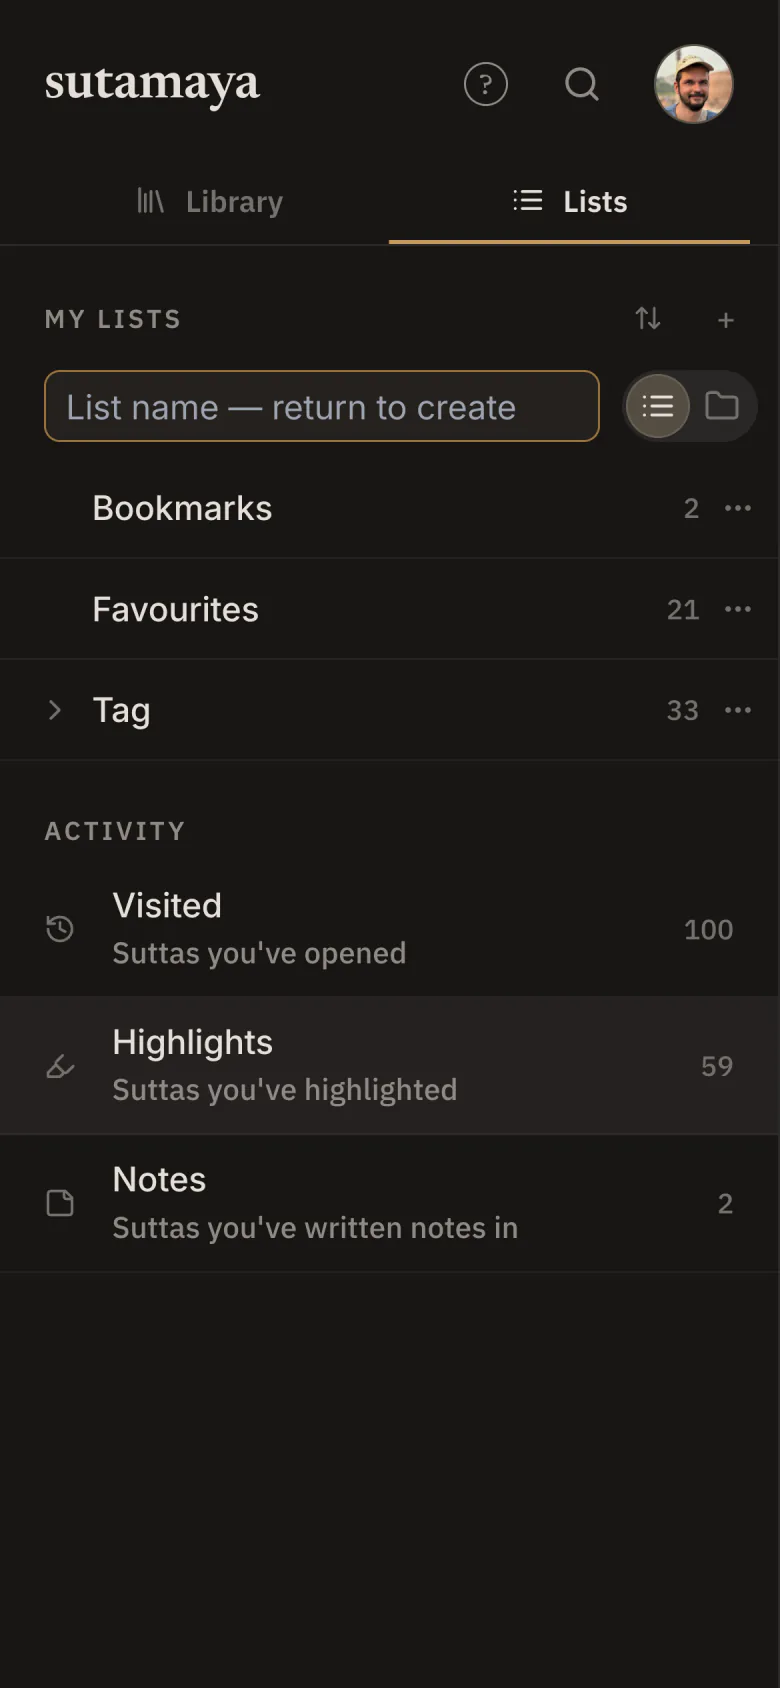
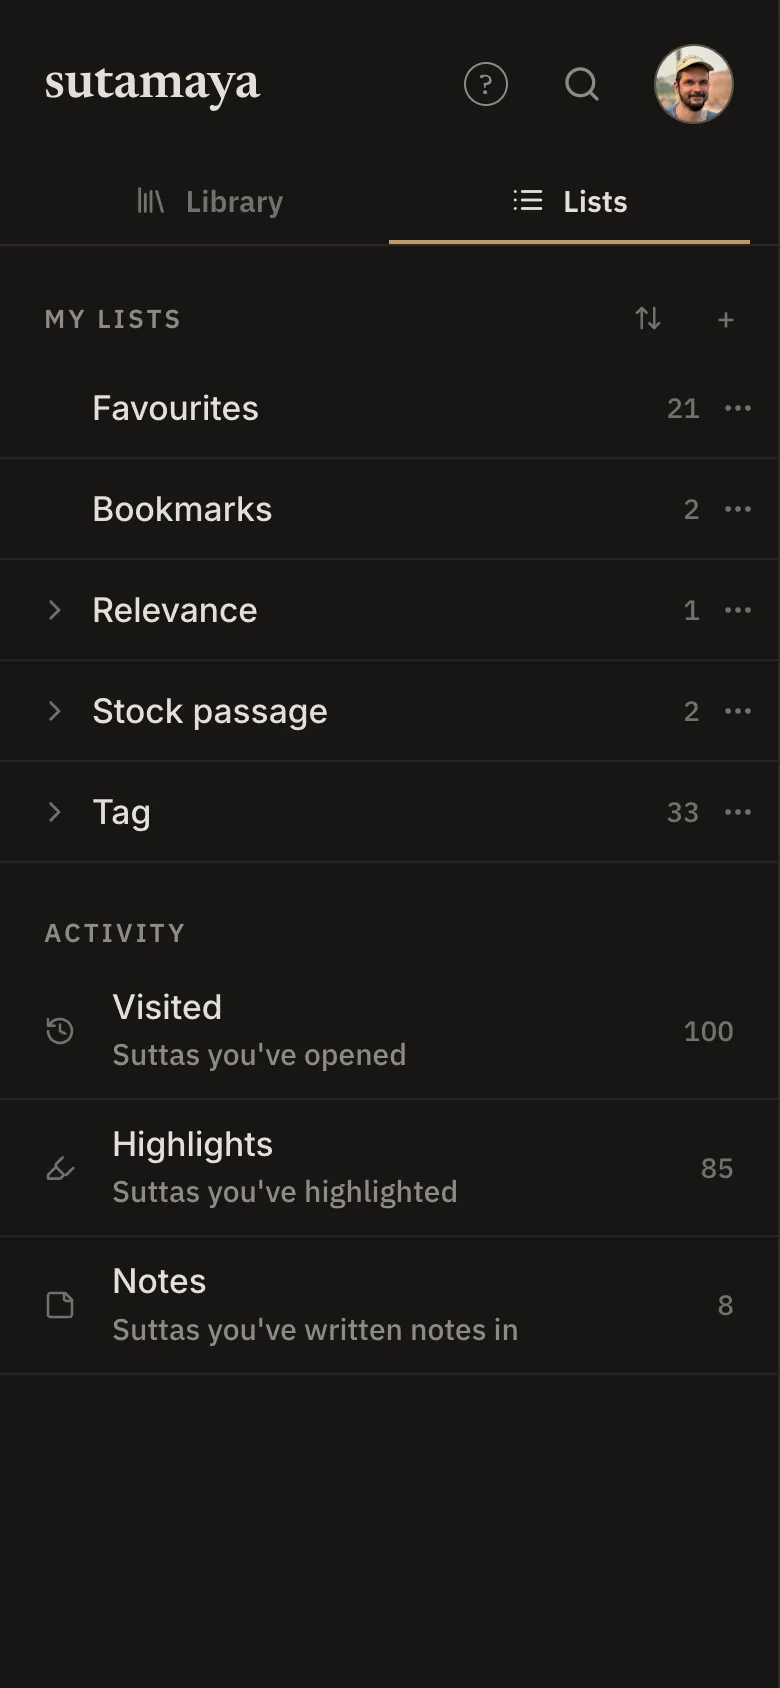
Link the walkthrough video from the hero, and refresh the Lists shot
The walkthrough stays on YouTube and is reached by a text link under the
hero's button. An embedded player would put YouTube's title bar, buttons
and end-screen grid in the middle of the layout, and would be the first
JavaScript on a page that otherwise runs none.

lists-mobile.webp is recaptured with a fuller set of lists, and is now
the one screenshot here with no counterpart in the help page's assets.

Claude-Session: https://claude.ai/code/session_011jty4vEYizDSyE4CrMJgS5

diff --git a/web/public/landing.html b/web/public/landing.html
@@ -8,7 +8,8 @@
   It duplicates the app's colours, wordmark and screenshots rather than importing them: nothing
   here is part of the Vite graph, so there is no build step to resolve a token or hash an asset
   name. The screenshots in /landing/ are copies of the ones web/src/assets/help/ ships to the
-  help page, and have to be re-copied when those are recaptured.
+  help page, and have to be re-copied when those are recaptured — except lists-mobile.webp,
+  which is captured for this page alone and has no counterpart there.
 -->
 <html lang="en">
   <head>
@@ -157,6 +158,8 @@
       .lede { font-size: clamp(17px, 2.4vw, 20px); color: rgb(var(--ink-2)); margin: 0 0 32px; }
       .cta { display: flex; gap: 12px; flex-wrap: wrap; align-items: center; }
       .fineprint { font-size: 14px; color: rgb(var(--ink-3)); margin: 18px 0 0; }
+      .watch { font-size: 15px; margin: 18px 0 0; }
+      .watch a { color: rgb(var(--accent-text)); }
 
       /* ---- features ---- */
       .feature {
@@ -252,6 +255,11 @@
         <div class="cta">
           <a class="btn" href="/app">Open the app</a>
         </div>
+        <!-- The walkthrough is on YouTube and stays there: a link costs the page nothing, where
+             an embedded player would put YouTube's own chrome in the middle of the layout. -->
+        <p class="watch">
+          <a href="https://www.youtube.com/watch?v=teNMmoVf5Y0">Watch a 4-minute walkthrough</a>
+        </p>
         <!-- Every screenshot below is a phone, so the breadth is stated here in words. -->
         <p class="fineprint">
           Works in any browser — phone, tablet or desktop.
